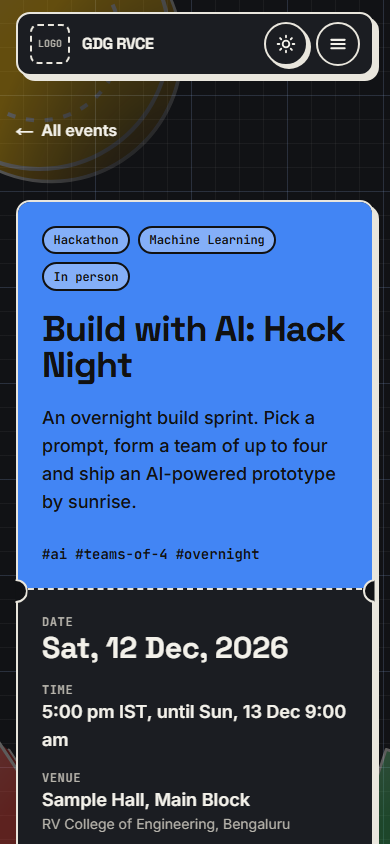
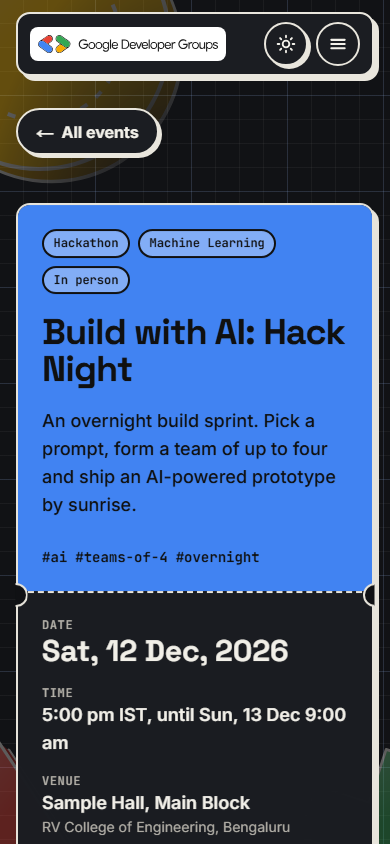
Use the official GDG lockup in the header and footer
Official lockup from the chapter's GDG community page, used unaltered: scaled not cropped, shown on its own white label in dark mode instead of recoloured, with clear space. Nav moves into the menu below 1024px so the wide lockup fits. README, design note, credits and screenshots updated.

diff --git a/src/components/Header.tsx b/src/components/Header.tsx
@@ -4,7 +4,7 @@ import Link from "next/link";
 import { usePathname } from "next/navigation";
 import { useEffect, useState } from "react";
 import { NAV, SITE } from "@/lib/site";
-import { LogoPlaceholder } from "./LogoPlaceholder";
+import { Logo } from "./Logo";
 import { ThemeToggle } from "./ThemeToggle";
 
 const ACTIVE_COLORS = ["bg-gblue", "bg-gred", "bg-ggreen"];
@@ -29,10 +29,10 @@ export function Header() {
     <header className="sticky top-0 z-40 px-4 pt-3 sm:px-6">
       <div className="nb-card mx-auto flex max-w-6xl items-center justify-between gap-3 px-3 py-2 sm:px-4">
         <Link href="/" aria-label={`${SITE.name} home`} className="flex min-h-11 shrink-0 items-center rounded-lg">
-          <LogoPlaceholder />
+          <Logo />
         </Link>
 
-        <nav aria-label="Main" className="hidden md:block">
+        <nav aria-label="Main" className="hidden lg:block">
           <ul className="flex items-center gap-1">
             {NAV.map((item, i) => {
               const active = isActive(item.href);
@@ -62,7 +62,7 @@ export function Header() {
           </a>
           <button
             type="button"
-            className="grid h-11 w-11 place-items-center rounded-full border-[2.5px] border-line bg-surface md:hidden"
+            className="grid h-11 w-11 place-items-center rounded-full border-[2.5px] border-line bg-surface lg:hidden"
             aria-expanded={open}
             aria-controls="mobile-nav"
             aria-label={open ? "Close menu" : "Open menu"}
@@ -76,7 +76,7 @@ export function Header() {
       </div>
 
       {open && (
-        <nav id="mobile-nav" aria-label="Main" className="nb-card mx-auto mt-2 max-w-6xl p-2 md:hidden">
+        <nav id="mobile-nav" aria-label="Main" className="nb-card mx-auto mt-2 max-w-6xl p-2 lg:hidden">
           <ul className="grid gap-1">
             {NAV.map((item, i) => {
               const active = isActive(item.href);

diff --git a/src/components/Footer.tsx b/src/components/Footer.tsx
@@ -1,6 +1,6 @@
 import Link from "next/link";
 import { NAV, SITE } from "@/lib/site";
-import { LogoPlaceholder } from "./LogoPlaceholder";
+import { Logo } from "./Logo";
 
 export function Footer() {
   return (
@@ -14,7 +14,7 @@ export function Footer() {
       </div>
       <div className="mx-auto grid max-w-6xl gap-8 px-4 py-10 sm:px-6 md:grid-cols-[1.5fr_1fr_1fr]">
         <div className="space-y-3">
-          <LogoPlaceholder />
+          <Logo size="footer" />
           <p className="max-w-sm text-sm text-muted">
             {SITE.name}, {SITE.location}. A student-run chapter of Google Developer Groups on Campus. This
             community site is not an official Google product.
@@ -35,8 +35,9 @@ export function Footer() {
         <div>
           <h2 className="mb-3 font-mono text-xs font-semibold uppercase tracking-wider text-muted">Credits</h2>
           <p className="text-sm text-muted">
-            Type: Space Grotesk, Inter and JetBrains Mono (SIL Open Font License, via Google Fonts). Icons drawn
-            inline. All names, events and links are sample content.
+            GDG logo: the official lockup from the chapter&apos;s GDG community page, used unaltered. Type: Space
+            Grotesk, Inter and JetBrains Mono (SIL Open Font License, via Google Fonts). Icons drawn inline. All
+            names, events and links are sample content.
           </p>
         </div>
       </div>

diff --git a/src/components/Logo.tsx b/src/components/Logo.tsx
@@ -1,0 +1,31 @@
+import Image from "next/image";
+
+/**
+ * Official GDG lockup, as published on the chapter's GDG community page.
+ * Used exactly as supplied: never recoloured, cropped or stretched (width follows
+ * height). The file carries its own white background, so on the dark theme it sits
+ * on a white label instead of being recoloured. The padding is the logo's clear space.
+ * Chapter details are separate text beside it, not edits to the logo.
+ */
+export function Logo({ size = "header" }: { size?: "header" | "footer" }) {
+  const header = size === "header";
+  return (
+    <span className="flex flex-wrap items-center gap-3">
+      <span className={`inline-flex shrink-0 rounded-lg bg-white ${header ? "px-2 py-2" : "px-3 py-2.5"}`}>
+        <Image
+          src="/brand/gdg-lockup-1line-black.svg"
+          alt="Google Developer Groups"
+          width={3003}
+          height={300}
+          unoptimized
+          priority={header}
+          className={header ? "h-[18px] w-auto sm:h-5 xl:h-6" : "h-6 w-auto sm:h-7"}
+        />
+      </span>
+      <span className={`flex-col border-l-[2.5px] border-line pl-3 leading-tight ${header ? "hidden md:flex" : "flex"}`}>
+        <span className="text-xs text-muted">on Campus</span>
+        <span className="font-display text-base font-bold tracking-tight">RVCE</span>
+      </span>
+    </span>
+  );
+}

diff --git a/README.md b/README.md
@@ -94,7 +94,7 @@ src/
 
 ## Swapping in official assets
 
-- **Logo:** replace `src/components/LogoPlaceholder.tsx` with the official GDG logo exactly as supplied (no recolouring or stretching, with clear space around it).
+- **Logo:** the official GDG lockup lives at `public/brand/gdg-lockup-1line-black.svg` and is placed by `src/components/Logo.tsx`. Replace the file with any newer official version exactly as supplied (no recolouring, cropping or stretching).
 - **Chapter name and links:** edit `SITE` in `src/lib/site.ts`.
 - **Content:** edit `src/data/events.ts` and `src/data/team.ts`.
 
@@ -104,6 +104,7 @@ src/
 - Icons and illustrations: hand-drawn inline SVG; avatars are generated from initials.
 - Libraries: Next.js, React and Tailwind CSS (MIT).
 - Motion and copy principles adapted from [emilkowalski/skills](https://github.com/emilkowalski/skills) and [Leonxlnx/taste-skill](https://github.com/Leonxlnx/taste-skill).
-- No third-party logos or photos are used.
+- GDG logo: the official lockup from the [chapter's GDG community page](https://gdg.community.dev/gdg-on-campus-rv-college-of-engineering-bengaluru-india/), used unaltered.
+- No other third-party logos and no photos are used.
 
 All names, bios, events, venues and profile links are made-up sample content. This is a community site and not an official Google product.

diff --git a/DESIGN_NOTE.md b/DESIGN_NOTE.md
@@ -46,7 +46,7 @@ All three are open source (SIL OFL) and loaded through `next/font`, so there is 
 ## How the GDG brand guidelines were followed
 
 - **Colour:** built around the four Google colours, used consistently, with readable text on every one.
-- **Logo:** a plain placeholder, as the brief instructs, kept in one component so the official logo can replace it unaltered and with clear space.
+- **Logo:** the official GDG lockup, as published on the chapter's GDG community page, used exactly as supplied: never recoloured, cropped or stretched, with clear space around it. On the dark theme it sits on its own white label instead of being recoloured. On phones the whole lockup scales down rather than being cut to just the mark. "on Campus · RVCE" is separate text beside it, not an edit to the logo.
 - **Name:** "GDG on Campus RV College of Engineering", as listed on the chapter's GDG community page. It is set in one place in the code.
 - **Spirit:** friendly, developer-focused copy. The footer states that this is a community site and not an official Google product.
 - **Third-party material:** no other companies' logos. Social platforms appear as text labels only. Fonts are credited and every illustration is original SVG.
